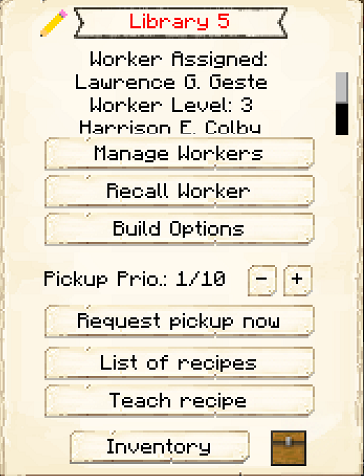
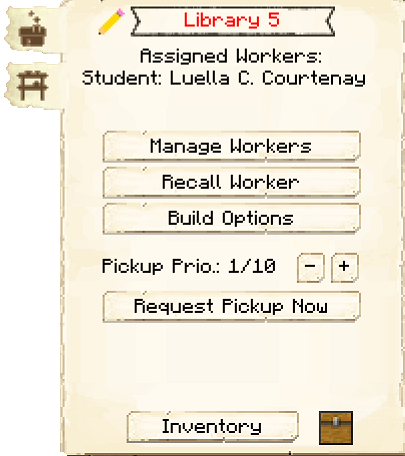
library update (#788)

diff --git a/pages/src/source/buildings/library.md b/pages/src/source/buildings/library.md
@@ -4,23 +4,8 @@ layout: default
 ---
 # Library
 
-<div class="infobox box text-center">
-    <img src="../../assets/images/buildings/library.png" alt="Library" />
-    <hr />
-    <div class="row section-text text-left">
-        <div class="col">
-        <p><strong>Worker:</strong></p>
-        </div>
-        <div class="col">
-        <p><a href="../workers/librarystudent">Library Student</a></p>
-        </div>
-    </div>
-    <hr />
-    <recipe>library</recipe>
-</div>
-
+{% capture content %}
 ### Note: The Library cannot be built until you finish the research in the [University](../../source/buildings/university).
-<br>
 
 The Library is a way for you to raise your adult citizens' Intelligence skill, which influences all other skill increases (at other jobs). A citizen will randomly level up their Intelligence as long as they're assigned to the Library. Being a Library Student is their full-time job, so you can't have one citizen work at the Library and another worker hut at the same time.
 
@@ -35,36 +20,18 @@ Two citizens can study per Library level. So:
 | 5              | 10                          |
 
 **Hint:** Paper and books help Library Students increase their skills faster.
-
-<br>
+{% endcapture %}
+{% capture infobox %}
+{% include infobox/building.html worker="librarystudent" recipes="library" image="../../assets/images/buildings/library.png" alt="Library" %}
+{% endcapture %}
+{% include page-infobox-wrapper.html content=content infobox=infobox %}
 
 ## Library GUI
 
-When accessing the Library's hut block by right-clicking on it, you will see a GUI with different options:
-
 <div class="row">
-  <div class="col-sm-12 col-md">
-    <img src="../../assets/images/gui/librarygui.png" class="img-fluid mx-auto" alt="Library GUI">
-  </div>
-  <div class="col-sm-12 col-md">
-    <br>
-    <ul>
-      {% for item in site.data.gui.global %}
-        <li><strong>{{ item.button }}:</strong> {{ item.content }}</li>
-      {% endfor %}
-    </ul>
-  </div>
-</div>  
+  <div class="col">
+    {% include contentblock/main-gui.html header="When accessing the Library hut block by right-clicking on it, you will see a GUI with different options. You start on the main tab:" image="../../assets/images/gui/librarygui.png" %}
 
-This is page two of the Library GUI.
-
-<div class="row">
-    <div class="col-sm-12 col-md">
-        <img src="../../assets/images/gui/minstockgui.png" class="img-fluid mx-auto" alt="Library GUI 2">
-    </div>
-    <div class="col-sm-12 col-md">
-        <ul>
-        <li><strong> Minimum Stock: </strong> Use this button to tell the Library to keep a minimum stock on hand. Set items will be displayed above the button.</li>
-        </ul>
-    </div>
+    {% include contentblock/stock-gui.html buildingname="Library" header="The second tab of the GUI is <strong>Minimum Stock</strong>. It has one button:" image="../../assets/images/gui/minstockgui.png" %}
+  </div>
 </div>
